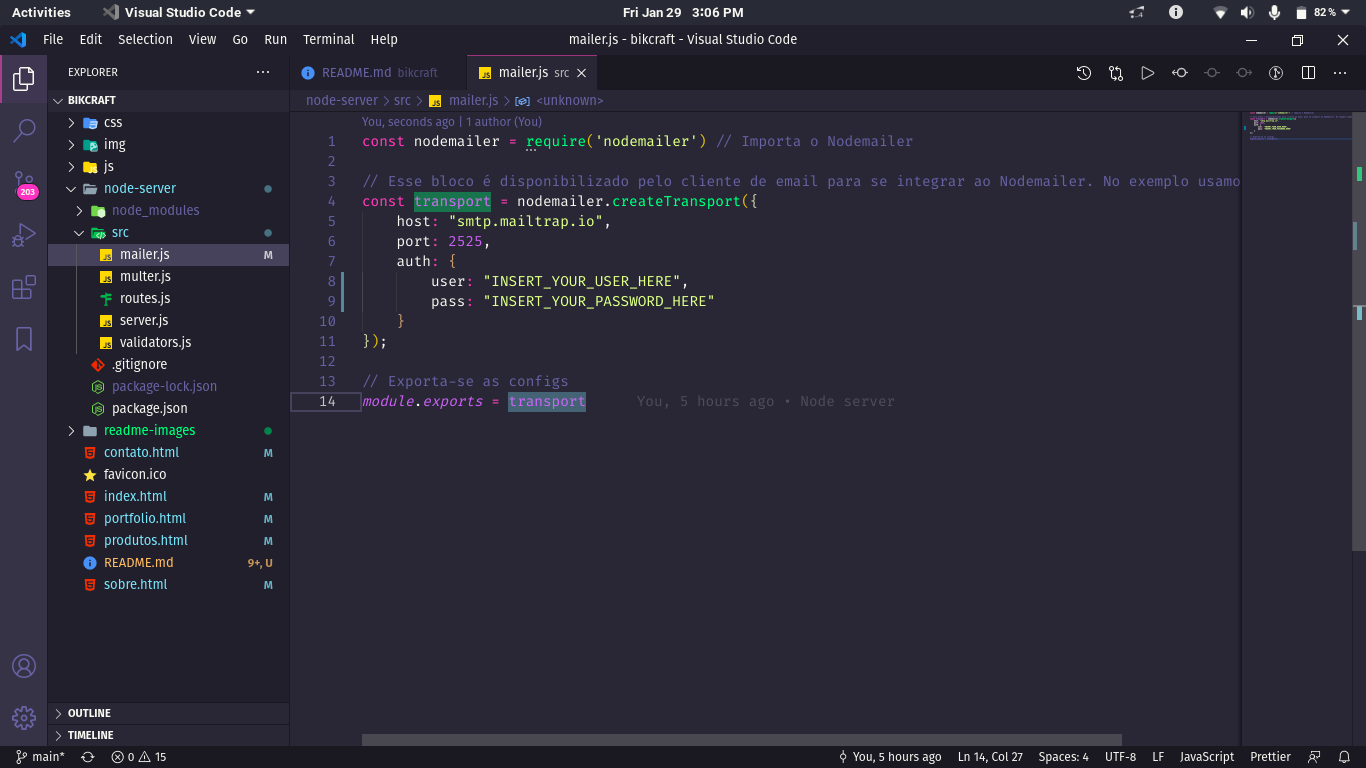
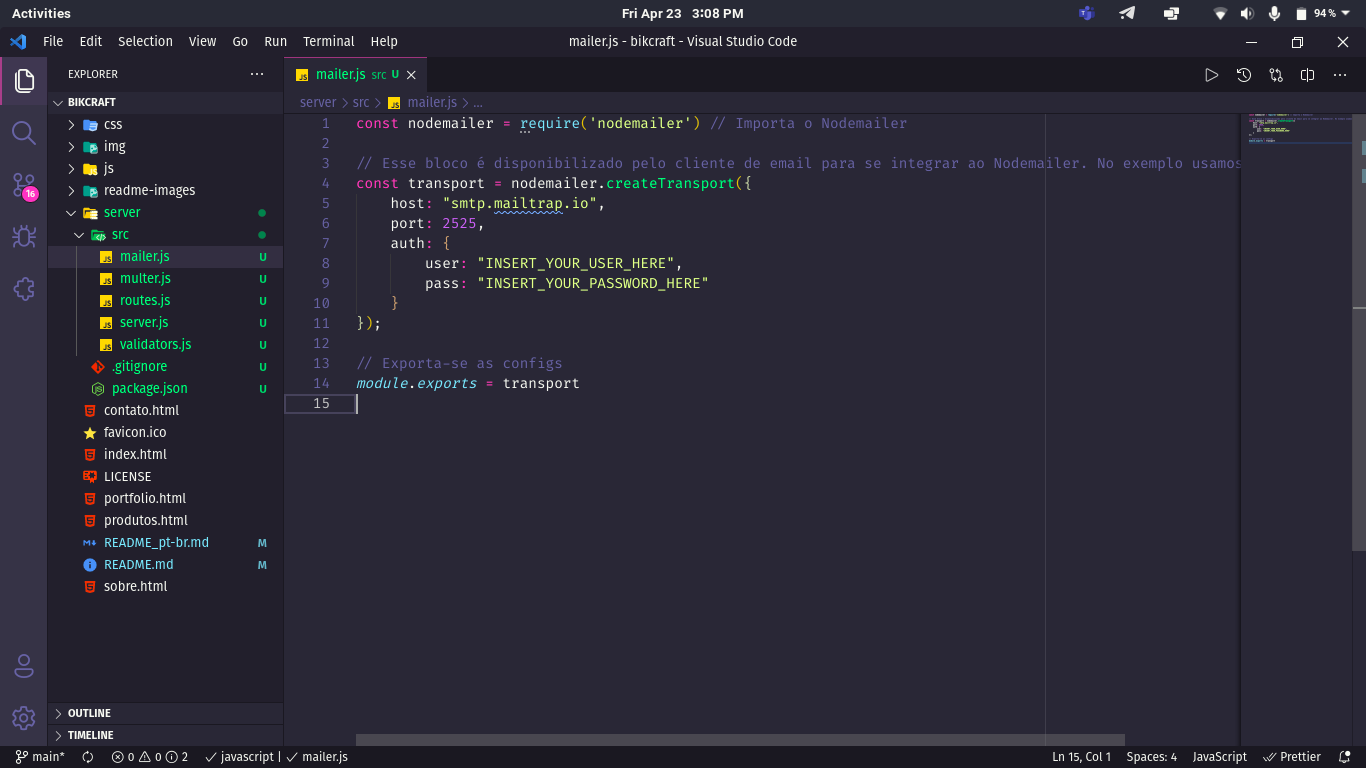
🥰 Update and some corrections

diff --git a/server/src/routes.js b/server/src/routes.js
@@ -85,7 +85,8 @@ routes.post('/contact', upload.none(), validateForm, async function(request, res
 
         return response.json({ ok: 'okay' });
     } catch (error) {
-        console.error(error)
+        console.error(error);
+        return response.send('Houston, nós temos um problema. Tente enviar a mensagem mais tarde ou envie um email diretamente para equipebikcraft@bikcraft.com.');
     }
 });
 

diff --git a/server/src/server.js b/server/src/server.js
@@ -20,5 +20,5 @@ server.use(function (request, response, next) {
 server.use(routes);
 
 server.listen('8935', function() {
-    console.log('Server is running!')
+    console.log('Server is running!');
 });

diff --git a/README_pt-br.md b/README_pt-br.md
@@ -33,19 +33,19 @@ O primeiro passo é clonar o projeto, seja via terminal ou GitHub Desktop, ou me
 * (Opcional) [Yarn](https://yarnpkg.com/).
 * [VSCode](https://code.visualstudio.com/) e a extensão [Live Server](https://marketplace.visualstudio.com/items?itemName=ritwickdey.LiveServer).
 
-## :mag: Instalando dependências
+### :mag: Instalando dependências
 
-Com o Node.JS instalado, acesse a pasta *node-server* via terminal e rode o comando `npm install`. Caso você prefira usar o Yarn, basta rodar o comando `yarn`.
+Com o Node.JS instalado, acesse a pasta *server* via terminal e rode o comando `npm install`. Caso você prefira usar o Yarn, basta rodar o comando `yarn`.
 
 ### :goggles: Rodando o back-end
 
-Antes de executar o servidor é necessário fazer uma configuração. Abra o arquivo *node-server/src/mailer.js* e adicione suas credenciais SMTP de login.
+Antes de executar o servidor é necessário fazer uma configuração. Abra o arquivo *server/src/mailer.js* e adicione suas credenciais SMTP de login, trocando também o *host* e a *port* conforme fornecido pelo seu serviço de preferência.
 
-> Para meus testes usei os serviços do [Mailtrap](https://mailtrap.io/). Caso não o for usá-lo, troque também o *host* e a *port* conforme fornecido pelo seu serviço de preferência.
+> Para meus testes usei os serviços do [Mailtrap](https://mailtrap.io/).
 
 ![Credenciais de login](readme-images/changing-smtp-login.png)
 
-Acesse o diretório *node-server* via terminal e execute `npm start` (ou `yarn start`) e uma mensagem parecida com a seguinte aparecerá para você:
+Acesse o diretório *server* via terminal e execute `npm start` (ou `yarn start`) e uma mensagem parecida com a seguinte aparecerá para você:
 
 ![Rodando o servidor](readme-images/running-server.png)
 
@@ -55,7 +55,7 @@ Obs.: Caso não tenha sido esse o resultado, verifique que os requisitos e os pa
 
 Abra a pasta do projeto no VSCode e, clicando com o botão direito sobre o arquivo *index.html*, escolha *Open with Live Server*. Um servidor será iniciado pela extensão e ela abrirá o site no seu navegador padrão.
 
-> Não se esqueça de deixar o back-end redando em paralelo!
+> Não se esqueça de deixar o back-end rodando em paralelo!
 
 ## :tada: Se tudo deu certo...
 

diff --git a/README.md b/README.md
@@ -33,19 +33,19 @@ The first step is to clone the project, either via terminal or GitHub Desktop, o
 * (Optional) [Yarn](https://yarnpkg.com/).
 * [VSCode](https://code.visualstudio.com/) and the extension [Live Server](https://marketplace.visualstudio.com/items?itemName=ritwickdey.LiveServer).
 
-## :mag: Installing dependencies
+### :mag: Installing dependencies
 
-With Node.JS installed, access the *node-server* folder via terminal and run the `npm install` command. If you prefer to use Yarn, just run the command `yarn`.
+With Node.JS installed, access the *server* folder via terminal and run the `npm install` command. If you prefer to use Yarn, just run the command `yarn`.
 
 ### :goggles: Running the back-end
 
-Before running the server, it is necessary to make a configuration. Open the *node-server/src/mailer.js* file and add your SMTP login credentials.
+Before running the server, it is necessary to make a configuration. Open the *server/src/mailer.js* file and add your SMTP login credentials, also changing the * host * and * port * as provided by your preferred service.
 
-> For my tests I used the services of [Mailtrap](https://mailtrap.io/). If you are not going to use it, also change the *host* and *port* as provided by your preferred service.
+> For my tests I used the services of [Mailtrap](https://mailtrap.io/).
 
 ![Login credentials](readme-images/changing-smtp-login.png)
 
-Access the *node-server* directory via terminal and run `npm start` (or` yarn start`) and a message similar to the following will appear for you:
+Access the *server* directory via terminal and run `npm start` (or` yarn start`) and a message similar to the following will appear for you:
 
 ![Running the server](readme-images/running-server.png)
 
